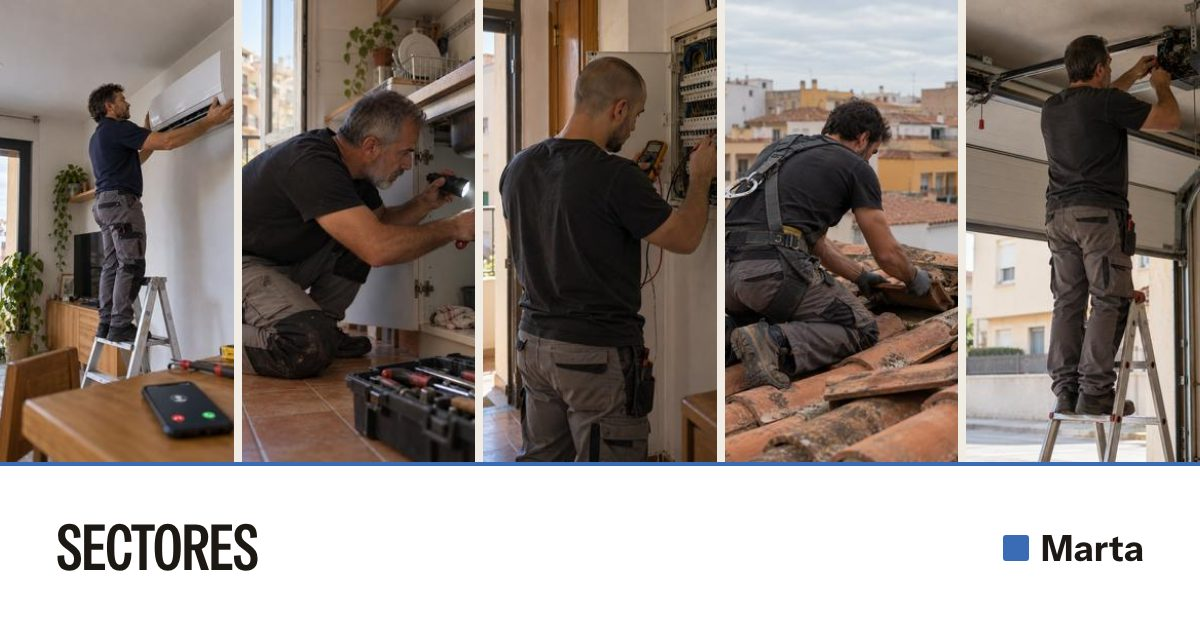
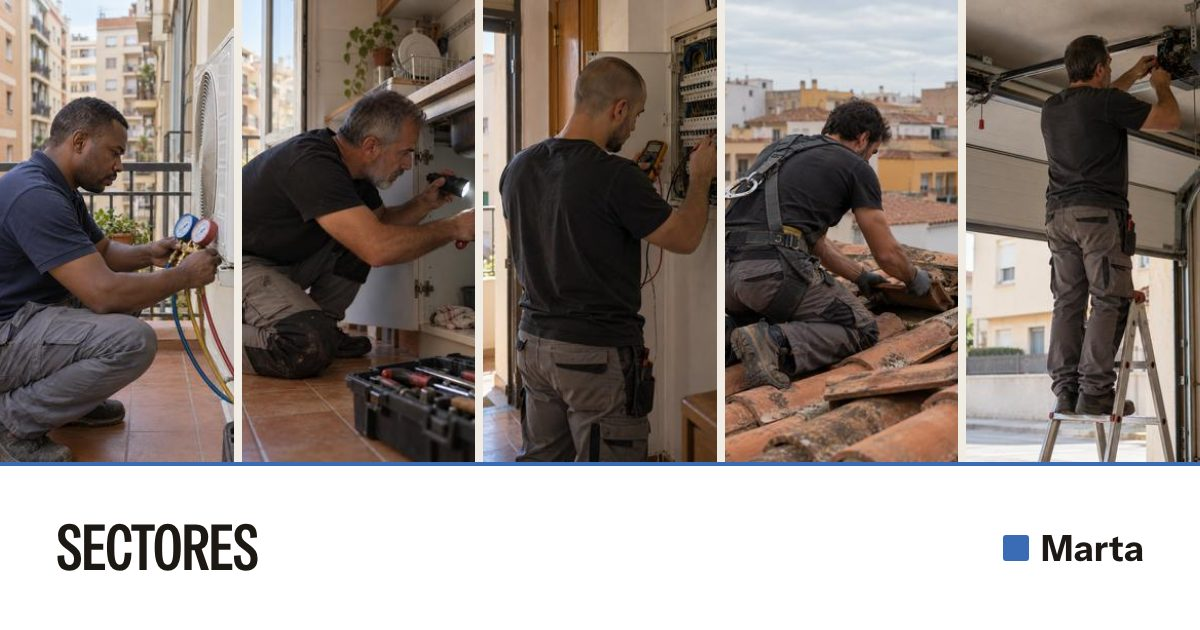
Nueva foto de climatización y sector de tratamiento de agua
- Climatización: foto nueva (900×1125), miniatura, texto alternativo e imagen OG.
- Tratamiento de agua: 14.º sector con su línea, tres avisos, parte y pregunta propia;
  en el carrusel, la rejilla, el menú y el pie. Foto provisional: bloque gris.
- og:image:alt usa el título de la página si la foto no tiene texto alternativo.

Claude-Session: https://claude.ai/code/session_013zRbETiKvM42swbRPQNyYH

Changed region(s): [[0.0, 0.0, 0.2158, 0.754]]

diff --git a/content/sectores/tratamiento-de-agua.js b/content/sectores/tratamiento-de-agua.js
@@ -1,0 +1,46 @@
+// Sector: Tratamiento de agua. Avisos y datos de ejemplo, ficticios y genéricos.
+// Foto provisional: bloque gris hasta tener la definitiva.
+
+export default {
+  "slug": "tratamiento-de-agua",
+  "nombre": "Tratamiento de agua",
+  "linea": "Para empresas de tratamiento de agua",
+  "resumen": "Descalcificadores, ósmosis y filtros.",
+  "dato": "Avería",
+  "foto": {
+    "src": "/img/sectores/tratamiento-de-agua.jpg",
+    "mini": "/img/sectores/mini/tratamiento-de-agua.jpg",
+    "ancho": 900,
+    "alto": 1125,
+    "alt": ""
+  },
+  "meta": {
+    "titulo": "Marta para empresas de tratamiento de agua: atiende las llamadas que no puedes coger",
+    "descripcion": "Si no coges el teléfono, la llamada pasa a Marta. Apunta los datos del cliente y te manda el parte por WhatsApp. Para empresas de tratamiento de agua de toda España."
+  },
+  "hitos": [
+    {
+      "tiempo": "08:25",
+      "texto": "Sin agua por una fuga en el equipo",
+      "etiqueta": "Urgente"
+    },
+    {
+      "tiempo": "11:45",
+      "texto": "El descalcificador no regenera",
+      "etiqueta": "Normal"
+    },
+    {
+      "tiempo": "17:10",
+      "texto": "Quiere instalar una ósmosis",
+      "etiqueta": "Presupuesto"
+    }
+  ],
+  "parte": {
+    "prioridad": "Urgente",
+    "motivo": "Sin agua en casa por una fuga en el equipo"
+  },
+  "faq": {
+    "p": "¿Marta sabe qué equipo tiene el cliente?",
+    "r": "Marta pregunta el motivo del aviso. Si el cliente dice qué equipo tiene o dónde está instalado, va en las notas del parte."
+  }
+};

diff --git a/src/rutas.js b/src/rutas.js
@@ -24,7 +24,7 @@ export function paginas(sitio = "") {
     ),
     pagina("/sectores/", { titulo: t.paginaSectores.meta.titulo, descripcion: t.paginaSectores.meta.descripcion, og: "/og/sectores.jpg" }, paginaSectores(c)),
     ...sectores.map((s) =>
-      pagina(`/sectores/${s.slug}/`, { titulo: s.meta.titulo, descripcion: s.meta.descripcion, og: `/og/sectores/${s.slug}.jpg`, ogAlt: s.foto.alt }, inicio(c, s))
+      pagina(`/sectores/${s.slug}/`, { titulo: s.meta.titulo, descripcion: s.meta.descripcion, og: `/og/sectores/${s.slug}.jpg`, ogAlt: s.foto.alt || s.meta.titulo }, inicio(c, s))
     ),
     pagina("/clientes/", { titulo: t.paginaClientes.meta.titulo, descripcion: t.paginaClientes.meta.descripcion, og: "/og/clientes.jpg" }, clientes(c)),
   ];

diff --git a/content/sectores/index.js b/content/sectores/index.js
@@ -13,5 +13,6 @@ import mudanzas from "./mudanzas.js";
 import reparto_de_gasoleo from "./reparto-de-gasoleo.js";
 import talleres from "./talleres.js";
 import cerrajeria from "./cerrajeria.js";
+import tratamiento_de_agua from "./tratamiento-de-agua.js";
 
-export default [climatizacion, fontaneria, electricidad, tejados, puertas_de_garaje, reformas, control_de_plagas, reparacion_de_danos, recogida_de_escombros, mudanzas, reparto_de_gasoleo, talleres, cerrajeria];
+export default [climatizacion, fontaneria, electricidad, tejados, puertas_de_garaje, reformas, control_de_plagas, reparacion_de_danos, recogida_de_escombros, mudanzas, reparto_de_gasoleo, talleres, cerrajeria, tratamiento_de_agua];

diff --git a/content/sectores/climatizacion.js b/content/sectores/climatizacion.js
@@ -11,7 +11,7 @@ export default {
     "mini": "/img/sectores/mini/climatizacion.jpg",
     "ancho": 900,
     "alto": 1125,
-    "alt": "Un técnico monta un aire acondicionado en un salón."
+    "alt": "Un técnico revisa con manómetros la unidad exterior de un aire acondicionado en un balcón."
   },
   "meta": {
     "titulo": "Marta para empresas de climatización: atiende las llamadas que no puedes coger",
